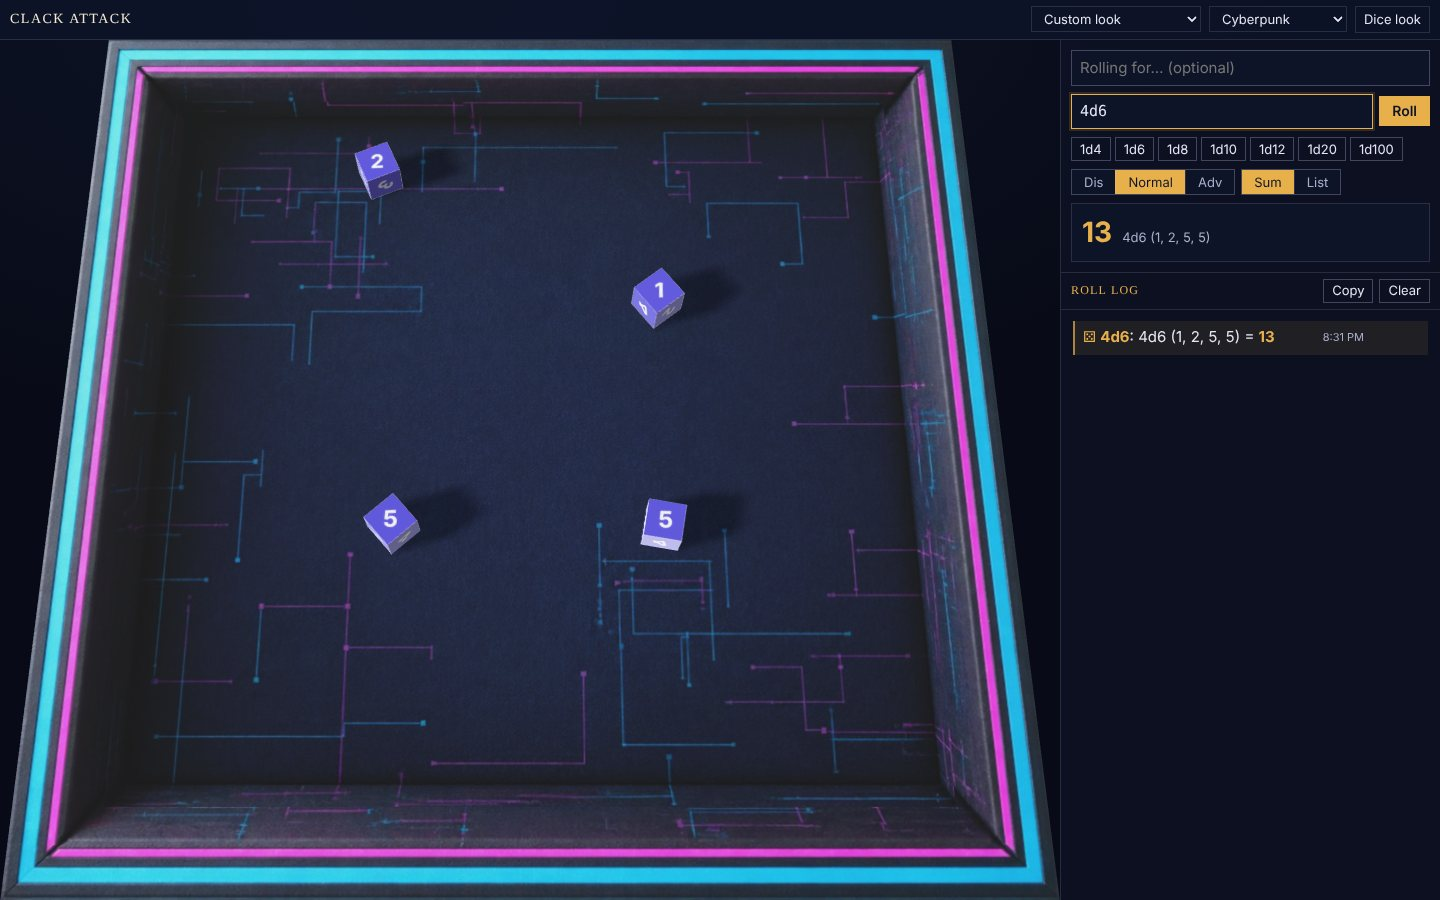
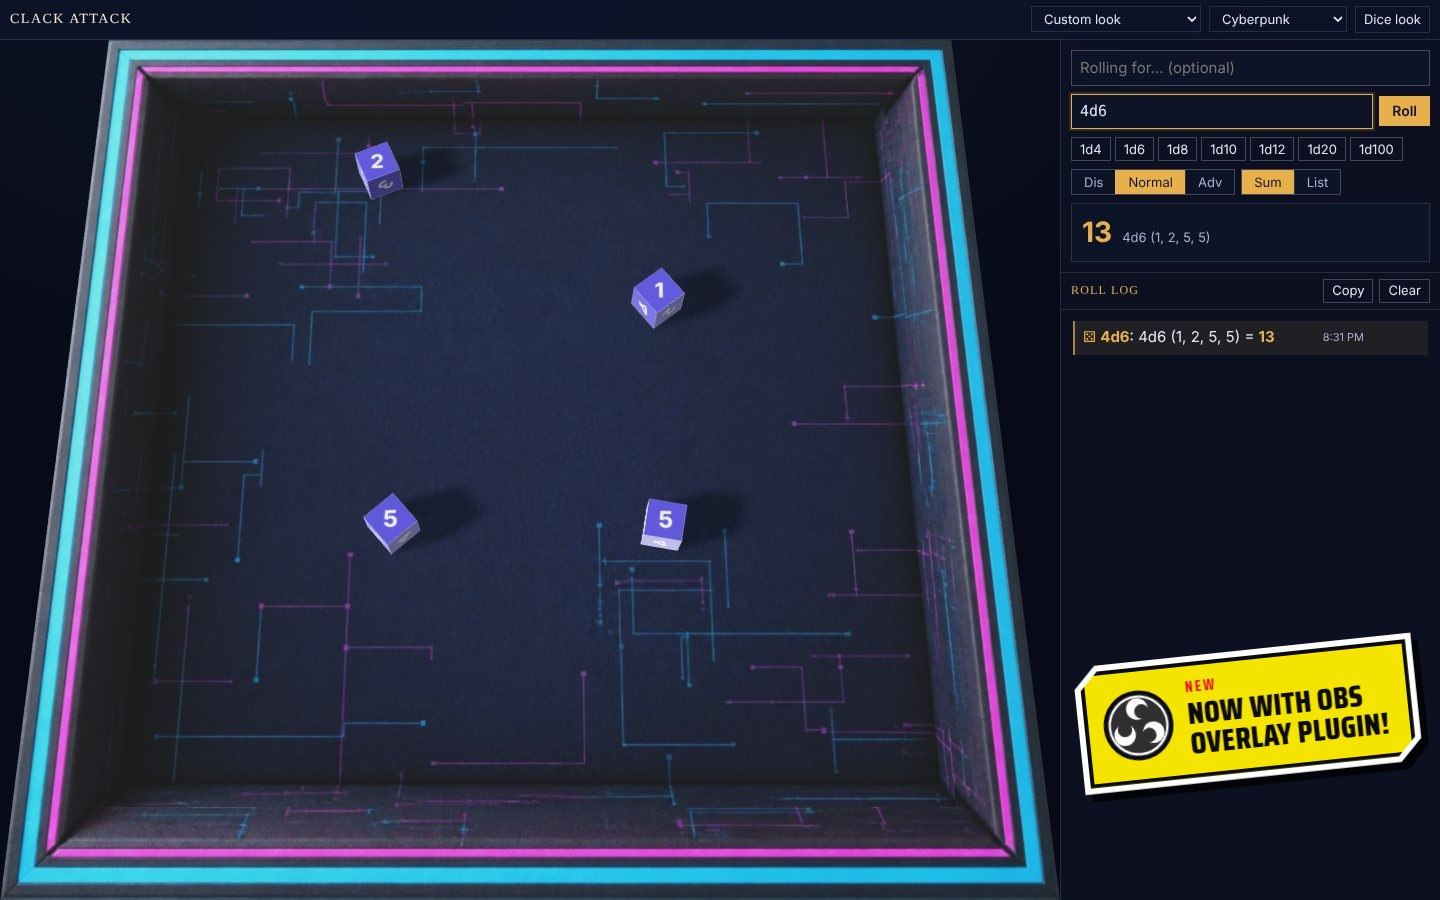
v0.31.1-alpha: OBS overlay sticker on Clack Attack's cover

Changed region(s): [[0.75, 0.6844, 1.0, 0.9022]]

diff --git a/art/covers/clack-attack.html b/art/covers/clack-attack.html
@@ -1,0 +1,43 @@
+<!doctype html>
+<!-- Clack Attack's cover (docs/tools/clack-attack/cover.jpg, 1440x900): the plain screenshot clack-attack-base.jpg with the
+     OBS overlay sticker on top. Render with headless Edge at --window-size=1440,900 (the flags in tools/build_banners.ps1),
+     then shrink the result to 640x400 for thumb.jpg. -->
+<html lang="en">
+<head>
+<meta charset="utf-8">
+<link href="https://fonts.googleapis.com/css2?family=Saira+Condensed:wght@700;800&display=swap" rel="stylesheet">
+<style>
+  * { box-sizing: border-box; margin: 0; padding: 0; }
+  html, body { width: 1440px; height: 900px; overflow: hidden; background: #000; }
+  body { position: relative; background: url(clack-attack-base.jpg) 0 0 / 1440px 900px no-repeat; }
+  .sticker {
+    position: absolute; left: 1078px; top: 650px;
+    transform: rotate(-6deg); filter: drop-shadow(7px 8px 0 rgba(0,0,0,.75));
+  }
+  .edge { padding: 6px; background: #fff; clip-path: polygon(22px 0, 100% 0, 100% calc(100% - 22px), calc(100% - 22px) 100%, 0 100%, 0 22px); }
+  .face {
+    display: flex; align-items: center; gap: 14px; padding: 14px 20px 14px 14px; white-space: nowrap;
+    background: #f5e400; color: #0b0b0d; border: 4px solid #0b0b0d;
+    clip-path: polygon(18px 0, 100% 0, 100% calc(100% - 18px), calc(100% - 18px) 100%, 0 100%, 0 18px);
+  }
+  .face svg { flex: none; width: 72px; height: 72px; }
+  .face p { font: 800 31px/0.98 "Saira Condensed", "Arial Narrow", sans-serif; text-transform: uppercase; letter-spacing: .01em; }
+  .face p small { display: block; margin-bottom: 4px; font: 700 15px/1 "Saira Condensed", sans-serif; letter-spacing: .14em; color: #e3122d; }
+</style>
+</head>
+<body>
+  <div class="sticker"><div class="edge"><div class="face">
+    <svg viewBox="0 0 100 100" aria-hidden="true">
+      <circle cx="50" cy="50" r="46" fill="#302e31" stroke="#0b0b0d" stroke-width="5"/>
+      <circle cx="50" cy="50" r="40" fill="none" stroke="#fff" stroke-width="3"/>
+      <g id="lobe">
+        <circle cx="50" cy="27" r="15" fill="#fff"/>
+        <circle cx="56" cy="31" r="10" fill="#302e31"/>
+      </g>
+      <use href="#lobe" transform="rotate(120 50 50)"/>
+      <use href="#lobe" transform="rotate(240 50 50)"/>
+    </svg>
+    <p><small>New</small>Now with OBS<br>overlay plugin!</p>
+  </div></div></div>
+</body>
+</html>

diff --git a/docs/blog/you-can-make-anything-you-want/index.html b/docs/blog/you-can-make-anything-you-want/index.html
@@ -3,7 +3,7 @@
 <head>
   <meta charset="utf-8">
   <meta name="viewport" content="width=device-width, initial-scale=1">
-  <meta name="version" content="v0.31.0-alpha">
+  <meta name="version" content="v0.31.1-alpha">
   <meta name="theme-color" content="#0b0b0d">
   <title>You Can Make Anything You Want (Terms and Conditions Apply) | VRX Games</title>
   <link rel="icon" href="/assets/favicon.svg" type="image/svg+xml">

diff --git a/docs/blog/one-long-day/index.html b/docs/blog/one-long-day/index.html
@@ -3,7 +3,7 @@
 <head>
   <meta charset="utf-8">
   <meta name="viewport" content="width=device-width, initial-scale=1">
-  <meta name="version" content="v0.31.0-alpha">
+  <meta name="version" content="v0.31.1-alpha">
   <meta name="theme-color" content="#0b0b0d">
   <title>One long day: dice on stream, and an app that opens twice | VRX Games</title>
   <link rel="icon" href="/assets/favicon.svg" type="image/svg+xml">

diff --git a/docs/blog/pokedungeon-1-23/index.html b/docs/blog/pokedungeon-1-23/index.html
@@ -3,7 +3,7 @@
 <head>
   <meta charset="utf-8">
   <meta name="viewport" content="width=device-width, initial-scale=1">
-  <meta name="version" content="v0.31.0-alpha">
+  <meta name="version" content="v0.31.1-alpha">
   <meta name="theme-color" content="#0b0b0d">
   <title>PokéDungeon 1.23: shops are people, and deep floors pay | VRX Games</title>
   <link rel="icon" href="/assets/favicon.svg" type="image/svg+xml">

diff --git a/docs/blog/contract-zero-first-build/index.html b/docs/blog/contract-zero-first-build/index.html
@@ -3,7 +3,7 @@
 <head>
   <meta charset="utf-8">
   <meta name="viewport" content="width=device-width, initial-scale=1">
-  <meta name="version" content="v0.31.0-alpha">
+  <meta name="version" content="v0.31.1-alpha">
   <meta name="theme-color" content="#0b0b0d">
   <title>Contract Zero: from a design on paper to a first build | VRX Games</title>
   <link rel="icon" href="/assets/favicon.svg" type="image/svg+xml">

diff --git a/docs/blog/three-casino-games/index.html b/docs/blog/three-casino-games/index.html
@@ -3,7 +3,7 @@
 <head>
   <meta charset="utf-8">
   <meta name="viewport" content="width=device-width, initial-scale=1">
-  <meta name="version" content="v0.31.0-alpha">
+  <meta name="version" content="v0.31.1-alpha">
   <meta name="theme-color" content="#0b0b0d">
   <title>Three casino games, and the maths is the hard part | VRX Games</title>
   <link rel="icon" href="/assets/favicon.svg" type="image/svg+xml">

diff --git a/docs/blog/clack-attack-painted-trays/index.html b/docs/blog/clack-attack-painted-trays/index.html
@@ -3,7 +3,7 @@
 <head>
   <meta charset="utf-8">
   <meta name="viewport" content="width=device-width, initial-scale=1">
-  <meta name="version" content="v0.31.0-alpha">
+  <meta name="version" content="v0.31.1-alpha">
   <meta name="theme-color" content="#0b0b0d">
   <title>Clack Attack: every tray gets painted | VRX Games</title>
   <link rel="icon" href="/assets/favicon.svg" type="image/svg+xml">

diff --git a/docs/blog/installers-patchers-and-a-pixel-dog/index.html b/docs/blog/installers-patchers-and-a-pixel-dog/index.html
@@ -3,7 +3,7 @@
 <head>
   <meta charset="utf-8">
   <meta name="viewport" content="width=device-width, initial-scale=1">
-  <meta name="version" content="v0.31.0-alpha">
+  <meta name="version" content="v0.31.1-alpha">
   <meta name="theme-color" content="#0b0b0d">
   <title>Installers, patchers and a pixel dog | VRX Games</title>
   <link rel="icon" href="/assets/favicon.svg" type="image/svg+xml">

diff --git a/docs/blog/your-passion-is-not-a-waste-of-time/index.html b/docs/blog/your-passion-is-not-a-waste-of-time/index.html
@@ -3,7 +3,7 @@
 <head>
   <meta charset="utf-8">
   <meta name="viewport" content="width=device-width, initial-scale=1">
-  <meta name="version" content="v0.31.0-alpha">
+  <meta name="version" content="v0.31.1-alpha">
   <meta name="theme-color" content="#0b0b0d">
   <title>Your passion is not a waste of time | VRX Games</title>
   <link rel="icon" href="/assets/favicon.svg" type="image/svg+xml">

diff --git a/docs/news/clack-attack-on-phones/index.html b/docs/news/clack-attack-on-phones/index.html
@@ -3,7 +3,7 @@
 <head>
   <meta charset="utf-8">
   <meta name="viewport" content="width=device-width, initial-scale=1">
-  <meta name="version" content="v0.31.0-alpha">
+  <meta name="version" content="v0.31.1-alpha">
   <meta name="theme-color" content="#0b0b0d">
   <title>Clack Attack works on phones | VRX Games</title>
   <link rel="icon" href="/assets/favicon.svg" type="image/svg+xml">

diff --git a/docs/news/vrx-games-is-live/index.html b/docs/news/vrx-games-is-live/index.html
@@ -3,7 +3,7 @@
 <head>
   <meta charset="utf-8">
   <meta name="viewport" content="width=device-width, initial-scale=1">
-  <meta name="version" content="v0.31.0-alpha">
+  <meta name="version" content="v0.31.1-alpha">
   <meta name="theme-color" content="#0b0b0d">
   <title>VRX Games is live | VRX Games</title>
   <link rel="icon" href="/assets/favicon.svg" type="image/svg+xml">

diff --git a/docs/games/keno/index.html b/docs/games/keno/index.html
@@ -3,7 +3,7 @@
 <head>
   <meta charset="utf-8">
   <meta name="viewport" content="width=device-width, initial-scale=1">
-  <meta name="version" content="v0.31.0-alpha">
+  <meta name="version" content="v0.31.1-alpha">
   <meta name="theme-color" content="#0b0b0d">
   <title>Wyrmhoard Keno | VRX Games</title>
   <link rel="icon" href="/assets/favicon.svg" type="image/svg+xml">
